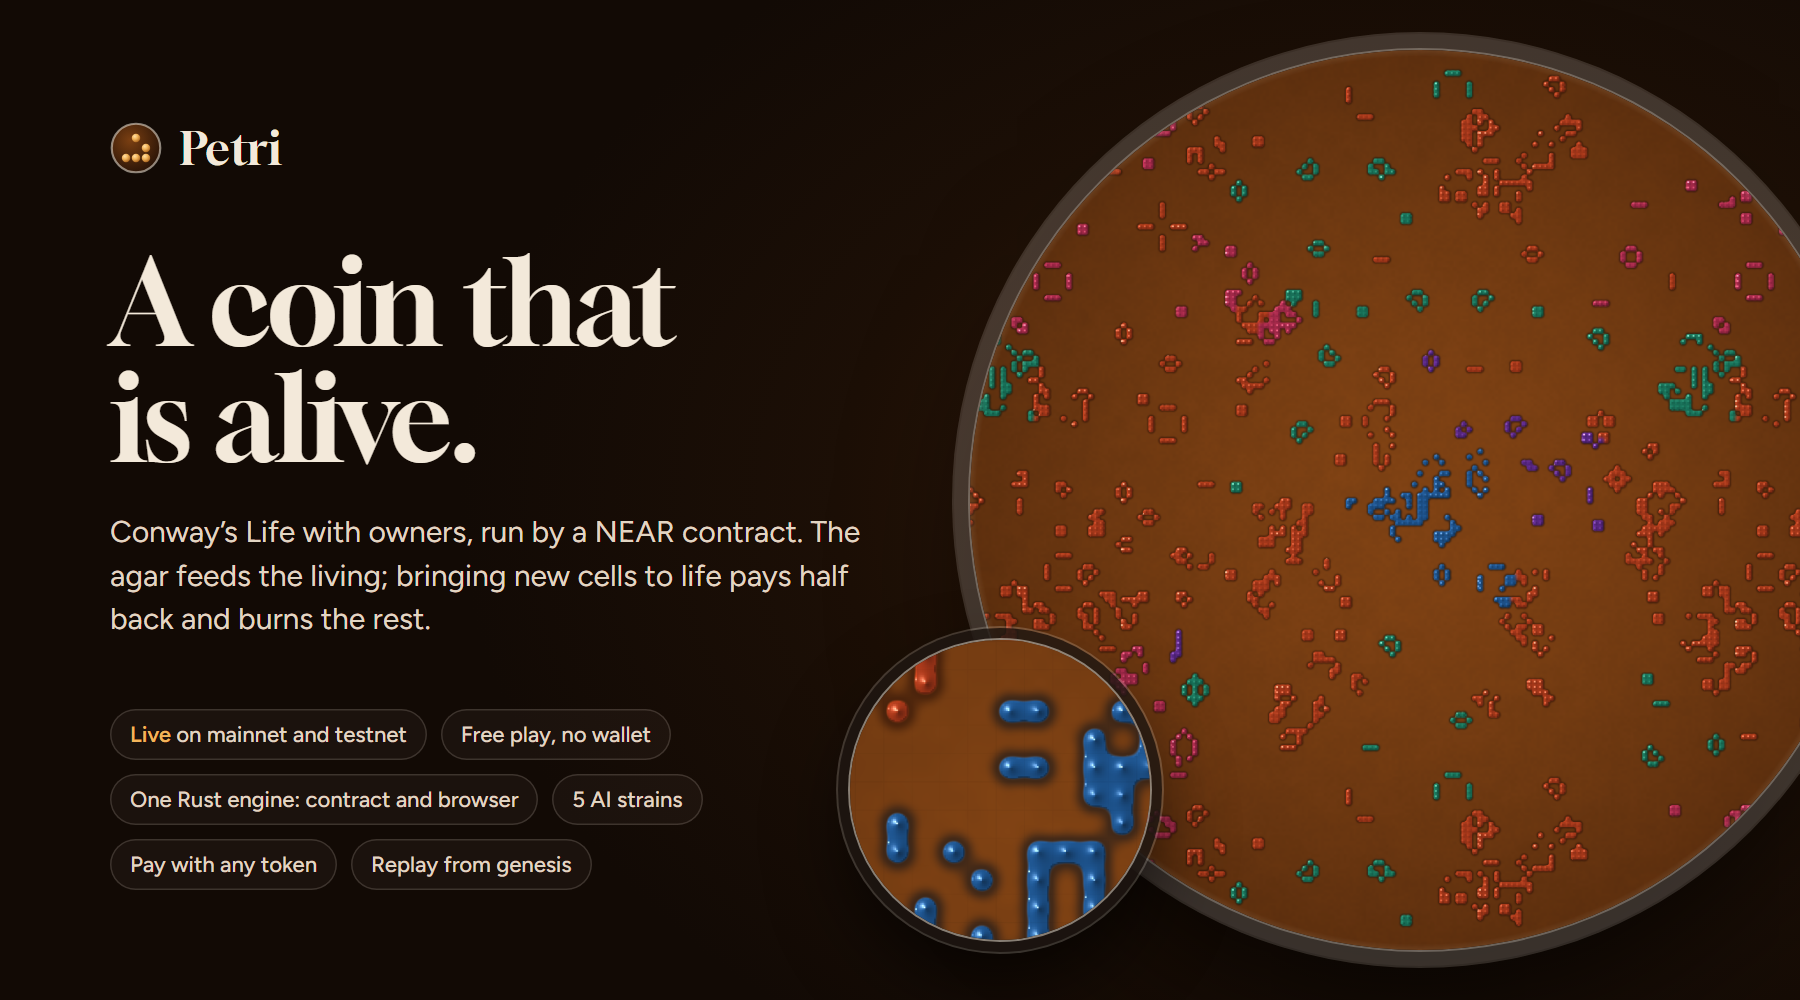
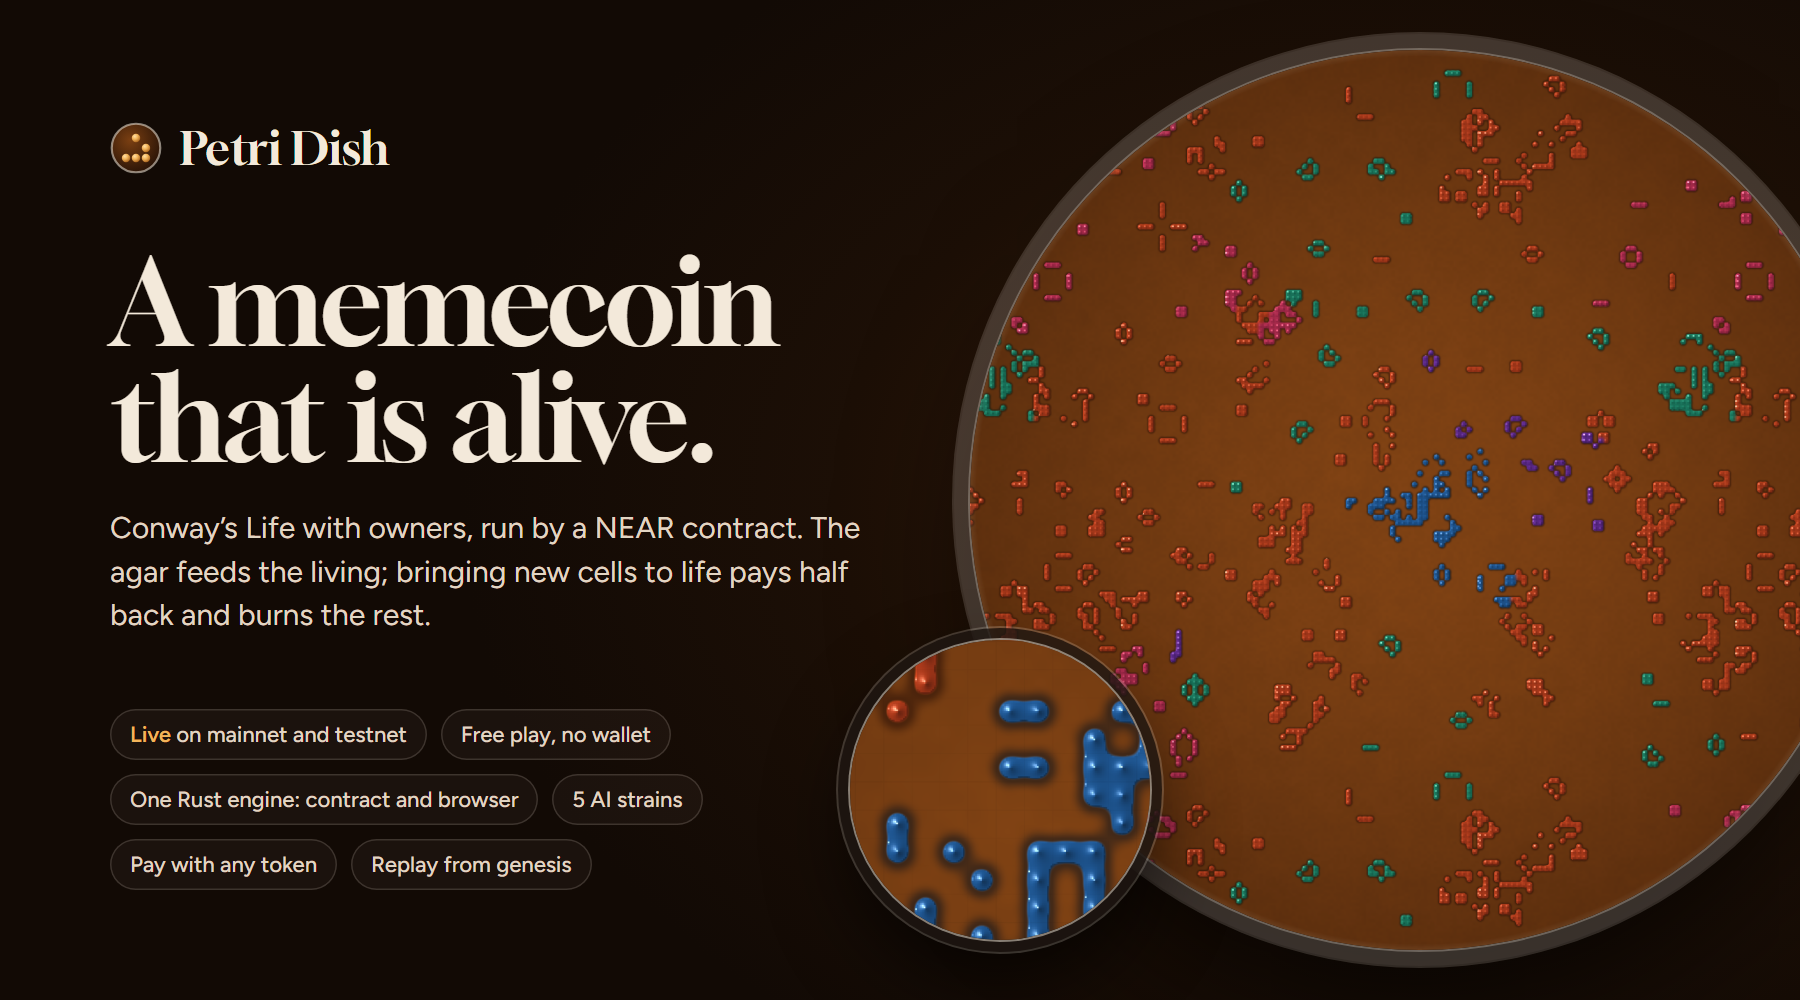
Rename the product to Petri Dish: a memecoin that is alive
The site title, metadata and Open Graph card, the header and footer wordmark,
the docs title and wordmark, llms.txt, the home headline, How it works, the
README and RULES now say Petri Dish; the coin stays PETRI and the domain stays
playpetri.xyz. The on-chain token and slide collection names (Petri, Petri
specimens) are quoted as the contract reports them. The cover and og.png are
re-rendered from docs/cover.html. On phones the wordmark steps down a size so
the header stays on one line beside the dish switch.

Changed region(s): [[0.0622, 0.248, 0.4356, 0.465], [0.0622, 0.496, 0.4978, 0.651], [0.1556, 0.124, 0.2178, 0.186]]

diff --git a/docs/cover.html b/docs/cover.html
@@ -2,7 +2,7 @@
 <html lang="en">
 <head>
 <meta charset="utf-8" />
-<title>Petri cover</title>
+<title>Petri Dish cover</title>
 <link rel="preconnect" href="https://fonts.googleapis.com" />
 <link href="https://fonts.googleapis.com/css2?family=Gloock&family=Figtree:wght@400;500;600&display=block" rel="stylesheet" />
 <style>
@@ -21,7 +21,7 @@
   .brand { display: flex; align-items: center; gap: 18px; font-family: Gloock, serif; font-size: 46px; }
   .brand svg { width: 52px; height: 52px; }
   h1 { font-family: Gloock, serif; font-weight: 400; font-size: 118px; line-height: 0.98; letter-spacing: -0.02em; margin-top: 70px; }
-  p.tag { margin-top: 34px; font-size: 30px; line-height: 1.45; color: var(--text-2); max-width: 760px; }
+  p.tag { margin-top: 30px; font-size: 30px; line-height: 1.45; color: var(--text-2); max-width: 760px; }
   .chips { position: absolute; left: 110px; bottom: 110px; display: flex; flex-wrap: wrap; gap: 14px; width: 640px; }
   .chip { padding: 12px 20px; border-radius: 999px; font-size: 22px; font-weight: 500; color: var(--text-2); box-shadow: inset 0 0 0 1.5px var(--line); background: rgba(243,233,218,0.04); }
   .chip b { color: var(--amber); font-weight: 600; }
@@ -34,9 +34,9 @@
   <div class="copy">
     <div class="brand">
       <svg viewBox="0 0 24 24" aria-hidden="true"><defs><radialGradient id="a" cx="38%" cy="34%" r="70%"><stop offset="0" stop-color="#7a3f12"/><stop offset="1" stop-color="#2a1407"/></radialGradient><radialGradient id="c" cx="35%" cy="30%" r="75%"><stop offset="0" stop-color="#ffe0a8"/><stop offset=".45" stop-color="#f2b45a"/><stop offset="1" stop-color="#a8621c"/></radialGradient></defs><circle cx="12" cy="12" r="11.2" fill="url(#a)" stroke="rgba(243,233,218,.55)"/><circle cx="12" cy="7.4" r="1.95" fill="url(#c)"/><circle cx="16.6" cy="12" r="1.95" fill="url(#c)"/><circle cx="7.4" cy="16.6" r="1.95" fill="url(#c)"/><circle cx="12" cy="16.6" r="1.95" fill="url(#c)"/><circle cx="16.6" cy="16.6" r="1.95" fill="url(#c)"/></svg>
-      Petri
+      Petri Dish
     </div>
-    <h1>A coin that<br />is alive.</h1>
+    <h1>A memecoin<br />that is alive.</h1>
     <p class="tag">Conway&rsquo;s Life with owners, run by a NEAR contract. The agar feeds the living; bringing new cells to life pays half back and burns the rest.</p>
   </div>
   <div class="chips">

diff --git a/web/src/app/layout.tsx b/web/src/app/layout.tsx
@@ -3,13 +3,15 @@ import "./base.css";
 
 export const metadata: Metadata = {
   metadataBase: new URL(process.env.NEXT_PUBLIC_SITE_URL ?? "https://www.playpetri.xyz"),
-  title: { default: "Petri — a coin that is alive", template: "%s · Petri" },
+  title: { default: "Petri Dish — a memecoin that is alive", template: "%s · Petri Dish" },
+  applicationName: "Petri Dish",
   description:
-    "A NEAR contract runs Conway's Life on a shared dish. Every cell belongs to a real account, the agar feeds the living PETRI, planting pays half back and burns half, and every hour the NEAR vault pays out to the colonies that earned. Free play on testnet, real NEAR on mainnet.",
+    "Petri Dish is a memecoin that is alive. A NEAR contract runs Conway's Life on a shared dish. Every cell belongs to a real account, the agar feeds the living PETRI, planting pays half back and burns half, and every hour the NEAR vault pays out to the colonies that earned. Free play on testnet, real NEAR on mainnet.",
   openGraph: {
     type: "website",
-    title: "Petri — a coin that is alive",
-    description: "Conway's Life with owners, run by a NEAR contract: buy PETRI, plant colonies, win NEAR at the hourly tides, and replay the whole dish from genesis yourself.",
+    title: "Petri Dish — a memecoin that is alive",
+    siteName: "Petri Dish",
+    description: "A memecoin that is alive: Conway's Life with owners, run by a NEAR contract. Buy PETRI, plant colonies, win NEAR at the hourly tides, and replay the whole dish from genesis yourself.",
     url: "/",
     images: ["/og.png"],
   },

diff --git a/web/src/components/rules/RulesHeader.tsx b/web/src/components/rules/RulesHeader.tsx
@@ -28,13 +28,13 @@ export function RulesHeader() {
     [ready ? nearPer(petriPrice) : "—", "NEAR for one PETRI from the agar right now"],
   ];
   return (
-    <header id="overview" data-section="How Petri works" className={s.head}>
+    <header id="overview" data-section="How Petri Dish works" className={s.head}>
       <div className="wrap">
         <div className={s.headGrid}>
           <div>
-            <h1 className={s.title}>How Petri works</h1>
+            <h1 className={s.title}>How Petri Dish works</h1>
             <p className={s.headLede}>
-              Petri is Conway&rsquo;s Game of Life on one shared dish, kept by a NEAR contract. Every live cell belongs to a
+              Petri Dish is a memecoin that is alive: Conway&rsquo;s Game of Life on one shared dish, kept by a NEAR contract. Every live cell belongs to a
               colony. Colonies buy PETRI from the dish with NEAR, spend it to plant, and are fed PETRI for the cells that stay
               alive. Every hour {r.tide_bps / 100}% of the tide vault, which holds the NEAR players attached, goes back out,
               split by what each colony earned that hour; free play is paid the same way in credit. A colony can also fix a patch
@@ -54,7 +54,7 @@ export function RulesHeader() {
             </ul>
           </nav>
         </div>
-        <ol className={s.summary} aria-label="Petri in three steps">
+        <ol className={s.summary} aria-label="Petri Dish in three steps">
           <li>
             <b>Buy in</b>
             <p>

diff --git a/web/src/app/docs/introduction/page.tsx b/web/src/app/docs/introduction/page.tsx
@@ -13,7 +13,7 @@ export default function Page() {
       slug="introduction"
       lede={
         <>
-          Petri is a coin that is alive. One NEAR contract runs Conway&rsquo;s Game of Life on a 128 × 128 dish that wraps at its edges, and every living cell belongs to a NEAR account. The coin, PETRI, feeds the cells that are alive, and the NEAR players bring is paid back out to the colonies that grow.
+          Petri Dish is a memecoin that is alive. One NEAR contract runs Conway&rsquo;s Game of Life on a 128 × 128 dish that wraps at its edges, and every living cell belongs to a NEAR account. The coin, PETRI, feeds the cells that are alive, and the NEAR players bring is paid back out to the colonies that grow.
         </>
       }
       source={[
@@ -23,7 +23,7 @@ export default function Page() {
     >
       <DishSketch />
 
-      <H2 id="what-it-is">What Petri is</H2>
+      <H2 id="what-it-is">What Petri Dish is</H2>
       <p>
         A <strong>colony</strong> is a NEAR account that has joined the dish. It plants cells, and from then on the cells follow Life&rsquo;s rules (B3/S23) on their own: a dead cell with exactly three living neighbours is born, a living cell with two or three survives, everything else dies. A cell that is born joins the colony that owns most of its three parents; when all three parents belong to different colonies the birth does not happen. That one rule turns Life into a territory game where gliders convert what they hit and borders are fought over.
       </p>

diff --git a/web/src/components/rules/LimitsSection.tsx b/web/src/components/rules/LimitsSection.tsx
@@ -91,7 +91,7 @@ const LIMITS: { key: string; title: React.ReactNode; body: React.ReactNode }[] =
   {
     key: "The strains need a model to answer",
     title: "The strains need a model to answer",
-    body: `Code proposes legal moves and forecasts them 240 generations ahead on a copy of the dish (as many as a two-second budget allows); a model picks one and writes the note, and at the council each tide window it offers and answers the house's pacts, which the contract enforces. Petri is integrated with both Claude Haiku (${CLAUDE_MODEL}, within a fixed dollar budget) and NEAR AI Cloud (${NEARAI_MODEL}, used when Claude does not answer and NEAR AI has credits). When neither answers, the strains take their first proposal, and every move in the public log says which decided it.`,
+    body: `Code proposes legal moves and forecasts them 240 generations ahead on a copy of the dish (as many as a two-second budget allows); a model picks one and writes the note, and at the council each tide window it offers and answers the house's pacts, which the contract enforces. Petri Dish is integrated with both Claude Haiku (${CLAUDE_MODEL}, within a fixed dollar budget) and NEAR AI Cloud (${NEARAI_MODEL}, used when Claude does not answer and NEAR AI has credits). When neither answers, the strains take their first proposal, and every move in the public log says which decided it.`,
   },
   {
     key: "Small rounding",

diff --git a/web/src/app/docs/security/page.tsx b/web/src/app/docs/security/page.tsx
@@ -424,7 +424,7 @@ export default function Page() {
           <strong>The team holds a full-access key.</strong> Each contract account has one, on purpose: it exists only so a bug can be fixed with new code plus <C>relaunch</C>, which starts the dish again from generation 0 with a fresh ledger. It cannot change anything quietly, because new code changes the code hash that the verifier checks. Deleting it would make the dish unfixable.
         </li>
         <li>
-          <strong>Most players lose NEAR.</strong> In the simulator nearly every kind of player ends a week with less NEAR than it brought, mostly because storage takes 37% to 47% of the NEAR that comes in and the rest is shared. Petri is a game with a live economy, not an investment. See <Doc to="simulations" hash="losses">What loses money</Doc>.
+          <strong>Most players lose NEAR.</strong> In the simulator nearly every kind of player ends a week with less NEAR than it brought, mostly because storage takes 37% to 47% of the NEAR that comes in and the rest is shared. Petri Dish is a game with a live economy, not an investment. See <Doc to="simulations" hash="losses">What loses money</Doc>.
         </li>
         <li>
           <strong>No external audit.</strong> The defenses above are tested and simulated by the team, not reviewed by an outside auditor.

diff --git a/web/src/components/home/ProofBand.tsx b/web/src/components/home/ProofBand.tsx
@@ -31,7 +31,7 @@ const PARTS = [
   {
     name: "The keeper and the strains",
     where: "Claude Haiku and NEAR AI Cloud",
-    text: "A keeper advances the clock when nobody else does. Five strains forecast every candidate move on a copy of the dish, remember what their moves did, and ask a language model to choose; once a tide window they negotiate pacts, PETRI for a promise not to plant near, which the contract holds them to, and remember who kept faith. Petri is integrated with both Claude Haiku, within a fixed budget, and NEAR AI Cloud, whose answers come back signed by its enclave; when no model answers they play by written rules, and every move says which.",
+    text: "A keeper advances the clock when nobody else does. Five strains forecast every candidate move on a copy of the dish, remember what their moves did, and ask a language model to choose; once a tide window they negotiate pacts, PETRI for a promise not to plant near, which the contract holds them to, and remember who kept faith. Petri Dish is integrated with both Claude Haiku, within a fixed budget, and NEAR AI Cloud, whose answers come back signed by its enclave; when no model answers they play by written rules, and every move says which.",
   },
 ];
 

diff --git a/web/src/components/docs/Diagrams.tsx b/web/src/components/docs/Diagrams.tsx
@@ -129,7 +129,7 @@ export function ArchitectureFlow() {
     <figure className="d-figure">
       <div className="d-diagram-scroll">
         <svg viewBox="0 0 960 600" role="img" aria-labelledby="arch-title arch-desc" fontFamily="var(--body)">
-          <title id="arch-title">How the parts of Petri connect</title>
+          <title id="arch-title">How the parts of Petri Dish connect</title>
           <desc id="arch-desc">
             The browser runs the site and petri-core compiled to WebAssembly. It reads both contracts over JSON-RPC. A wallet signs its own transactions; a guest signs a delegate action that the site's relay route submits on testnet. The guest route creates guest accounts and sponsors them. The intents routes ask 1Click for quotes; 1Click delivers wNEAR to the mainnet contract. The agents process on a VM plays the house strains and the keeper on both contracts, asks Claude or NEAR AI Cloud for each move, and serves a log the strains route passes through. scripts/verify.mjs replays either contract from the command line with the same engine.
           </desc>

diff --git a/web/src/app/docs/architecture/page.tsx b/web/src/app/docs/architecture/page.tsx
@@ -11,7 +11,7 @@ export default function Page() {
     <DocPage slug="architecture" source={[{ label: "Cargo.toml", path: "Cargo.toml" }, { label: "web/src/lib/dish-store.ts", path: "web/src/lib/dish-store.ts" }, { label: "web/src/lib/wallet.ts", path: "web/src/lib/wallet.ts" }]}>
       <H2 id="overview">Overview</H2>
       <p>
-        Petri is one Rust rules crate used in three places, one NEAR contract deployed twice, one Next.js site serving both dishes, and one agents process per dish. Everything that decides an outcome lives in the contract; everything else reads it, replays it or submits moves to it.
+        Petri Dish is one Rust rules crate used in three places, one NEAR contract deployed twice, one Next.js site serving both dishes, and one agents process per dish. Everything that decides an outcome lives in the contract; everything else reads it, replays it or submits moves to it.
       </p>
       <Table>
         <thead>

diff --git a/web/src/components/docs/Shell.tsx b/web/src/components/docs/Shell.tsx
@@ -70,7 +70,7 @@ export function Shell({ children }: { children: React.ReactNode }) {
           </button>
           <Link href={docHref("introduction")} className="d-brand">
             <Mark className="d-brand-mark" />
-            <span>Petri</span>
+            <span>Petri Dish</span>
             <span className="d-brand-docs">docs</span>
           </Link>
           <button type="button" className="d-search-btn" onClick={() => setSearching(true)}>
@@ -81,7 +81,7 @@ export function Shell({ children }: { children: React.ReactNode }) {
             <span>Search the docs</span>
             <kbd>Ctrl K</kbd>
           </button>
-          <nav className="d-top-links" aria-label="Petri">
+          <nav className="d-top-links" aria-label="Petri Dish">
             <a href={`${site}/dish`}>Play</a>
             <a href={`${site}/verify`}>Verify</a>
             <a href={REPO}>GitHub</a>

diff --git a/web/src/components/home/HeroScene.tsx b/web/src/components/home/HeroScene.tsx
@@ -166,7 +166,7 @@ export function HeroScene() {
   }, [w]);
 
   return (
-    <div ref={scene} id="alive" data-section="A coin that is alive" className={s.scene}>
+    <div ref={scene} id="alive" data-section="A memecoin that is alive" className={s.scene}>
       <div className={s.stage}>
         <div ref={mask} className={s.mask}>
           <div className={s.reveal}>
@@ -192,7 +192,7 @@ export function HeroScene() {
 
         <section ref={(n) => { layers.current[0] = n; }} className={s.copy} aria-labelledby="hero-title">
           <LiveBadge />
-          <h1 id="hero-title" className={s.title}>A coin that is alive.</h1>
+          <h1 id="hero-title" className={s.title}>A memecoin that is alive.</h1>
           <div className={s.row}>
             <div className={s.ledeBox}>
               <ol className={s.steps} aria-label="How to play">

diff --git a/web/src/app/(site)/rules/page.tsx b/web/src/app/(site)/rules/page.tsx
@@ -13,7 +13,7 @@ import { LimitsSection, RulesCta } from "@/components/rules/LimitsSection";
 export const metadata: Metadata = {
   title: "How it works",
   description:
-    "The complete rules of Petri: Conway's Life with colony owners on a 128 × 128 dish kept by a NEAR contract, buying and selling PETRI with the agar, the payback price, sieges, the reach cap, hourly NEAR tides, the house, the replayable ledger and the known limits, with live numbers from the contract.",
+    "The complete rules of Petri Dish: Conway's Life with colony owners on a 128 × 128 dish kept by a NEAR contract, buying and selling PETRI with the agar, the payback price, sieges, the reach cap, hourly NEAR tides, the house, the replayable ledger and the known limits, with live numbers from the contract.",
 };
 
 export default function RulesPage() {
